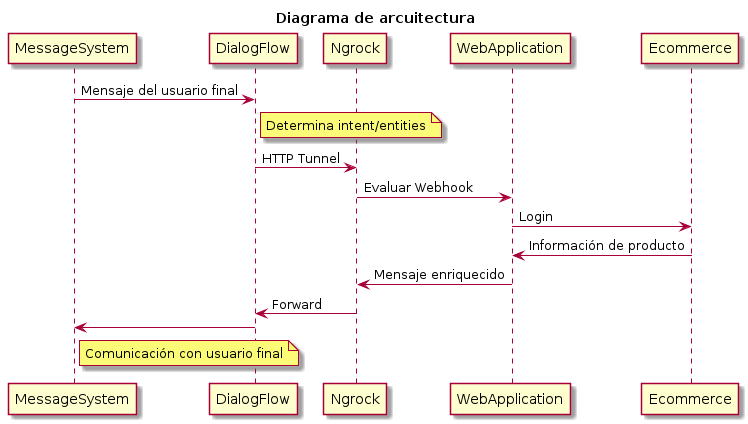
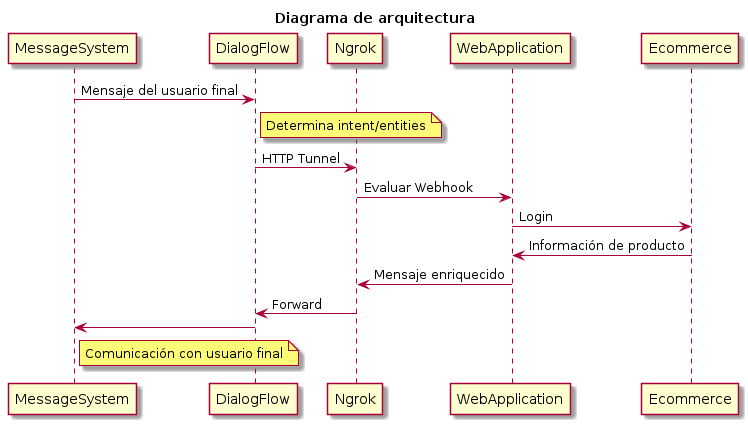
typos fixed

Changed region(s): [[0.369, 0.0307, 0.5535, 0.1533], [0.4305, 0.8892, 0.5227, 1.0]]

diff --git a/README.md b/README.md
@@ -1,4 +1,5 @@
 # Chatbot de E-commerce - test by Bosch
+
 <div id="table-of-contents">
 <h2>Table of Contents</h2>
 <div id="text-table-of-contents">
@@ -25,6 +26,8 @@
 </ul>
 </div>
 </div>
+
+
 
 # Introducción<a id="sec-1" name="sec-1"></a>
 
@@ -71,7 +74,7 @@ Antes de iniciar, asegúrate de tener los siguientes requerimientos:
 1.  Nos vamos a la carpeta donde se encuentra el repositorio.
 2.  En la consola ejecutamos el siguiente comando para crear nuestro ambiente virtual:
 
-```bash
+\`\`\`bash
 python -m venv venv
 ```
 
